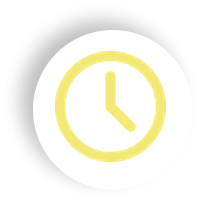
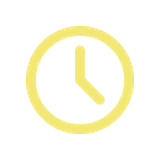
changes

Changed region(s): [[0.0938, 0.0938, 0.8438, 0.8438], [0.75, 0.1875, 0.7812, 0.2188]]

diff --git a/index.html b/index.html
@@ -130,31 +130,31 @@ document.addEventListener('DOMContentLoaded', function() {
         </div>
     <!-- CARD 3 -->
     <div class="grid pb-8 grid-cols-4 justify-center items-center px-2 lg:w-3/4 lg:gap-y-5  lg:grid-cols-6 lg:ml-4">
-<div data-aos="flip-right" data-aos-duration="1500" class="grid col-span-2 justify-center items-center w-full">
-<img src="./images/clock.png" alt="" class="mx-auto">
+<div data-aos="flip-right" data-aos-duration="1500" class="grid col-span-2 justify-center items-center mx-auto text-center">
+<img src="./images/clock.png" alt="" class="drop-shadow-2xl mx-auto mt-4">
 <h2 class="text-lg font-semibold md:text-xl xl:text-2xl ">TIMELY DELIVERY</h2>
-<p class="text-gray-600 px-3  md:text-lg text-sm lg:text-xl lg:w-[80%] mx-auto tracking-wider">Timely, reliable, respectful. </p>
+<p class="text-gray-600 px-3  md:text-lg text-sm lg:text-xl lg:w-[80%] mx-auto tracking-wider mb-3">Timely, reliable, respectful. </p>
 </div>
 <div data-aos="flip-right" data-aos-duration="1500"  class="grid col-span-2 justify-center items-center w-full">
-<img src="./images/leaf.png" alt="" class="mx-auto">
+<img src="./images/leaf.png" alt="" class="mx-auto drop-shadow-2xl mt-4">
 <h2 class="text-lg font-semibold md:text-xl  xl:text-2xl ">ECO FRIENDLY</h2>
-<p class="text-gray-600 px-3 md:text-lg  text-sm lg:text-xl lg:w-[80%] mx-auto tracking-wider">Aiming towards sustainability  </p>
+<p class="text-gray-600 px-3 md:text-lg  text-sm lg:text-xl lg:w-[80%] mx-auto tracking-wider mb-3">Aiming towards sustainability  </p>
 </div>
 <div  data-aos="flip-right" data-aos-duration="1500" class="grid col-span-2 justify-center items-center w-full">
-<img src="./images/star badge.png" alt="" class="mx-auto">
+<img src="./images/star badge.png" alt="" class="mx-auto drop-shadow-2xl mt-4">
 <h2 class="text-lg font-semibold md:text-xl  xl:text-2xl">CHEAP PRODUCTS</h2>
-<p class="text-gray-600 px-3  md:text-lg text-sm lg:text-xl lg:w-[80%] mx-auto tracking-wider">Pocket friendly products </p>
+<p class="text-gray-600 px-3  md:text-lg text-sm lg:text-xl lg:w-[80%] mx-auto tracking-wider mb-3">Pocket friendly products </p>
 </div>
 <div class="hidden lg:block"></div>
 
 <div  data-aos="flip-right" data-aos-duration="1500" class="grid col-span-2 justify-center items-center w-full">
-<img src="./images/puzzle.png" alt="" class="mx-auto">
+<img src="./images/puzzle.png" alt="" class="mx-auto drop-shadow-2xl">
 <h2 class="text-lg font-semibold md:text-xl xl:text-2xl">UNIFORMITY</h2>
-<p class="text-gray-600 px-3 md:text-lg  text-sm lg:text-xl lg:w-[80%] mx-auto tracking-wider">Consistent, homogeneous. </p>
+<p class="text-gray-600 px-3 md:text-lg  text-sm lg:text-xl lg:w-[80%] mx-auto tracking-wider mb-3">Consistent, homogeneous. </p>
 </div>
 <div class="lg:hidden"></div>
 <div data-aos="flip-right" data-aos-duration="1500"  class="grid col-span-2 justify-center items-center w-full">
-<img src="./images/rupee.png" alt="" class="mx-auto">
+<img src="./images/rupee.png" alt="" class="mx-auto drop-shadow-2xl">
 <h2 class="text-lg font-semibold md:text-xl  xl:text-2xl">COSTING</h2>
 <p class="text-gray-600 px-3  md:text-lg text-sm lg:text-xl lg:w-[80%] mx-auto tracking-wider">From concept to completion  </p>
 </div>
@@ -230,7 +230,7 @@ document.addEventListener('DOMContentLoaded', function() {
 <section >
     <div data-aos-offset="100" data-aos="fade-in" class="container2  text-center ">
 
-        <div class="heading services text-3xl 2xl:text-5xl text-[#4B563E] ">GALLERY</div>
+        <div class="heading services text-2xl md:text-4xl font-semibold 2xl:font-thin 2xl:text-5xl text-[#4B563E] mt-12 ">GALLERY</div>
         <div class="heading desc  xl:text-2xl md:text-lg lg:text-xl mt-5 max-w-[1000px] mx-auto ">If you’re on the lookout for simple home  designs, look no further than HomeLane.</div>
         <div class="card_container  mt-7 max-w-[1180px] mx-auto lg:flex lg:gap-x-14 lg:justify-between ">
             <div data-aos-offset="300" data-aos="zoom-in" class="img w-80 xl:w-96 m-auto p-2   ">

diff --git a/ourservice.html b/ourservice.html
@@ -182,8 +182,7 @@ document.addEventListener('DOMContentLoaded', function() {
         <div class="cards hover:translate-y-1 border-b-4 md:border-none" data-aos="flip-left">
             <div data-aos="flip-left" class="card  text-center m-auto "  style="width: 18rem;">
                 <div class="images  relative">
-                    <img src="/images/ellipse.png" class="m-auto " alt="...">
-                    <img src="/images/home.png" width="86px" class="m-auto absolute top-16 left-28 " alt="" srcset="">
+                    <img src="/images/house.png" class="m-auto drop-shadow-2xl mt-4" alt="...">
                 </div>    
             
                 <h4 class="heading card-title 2xl:text-lg  font-semibold text-sm  text-black ">HOME DECOR</h4>  
